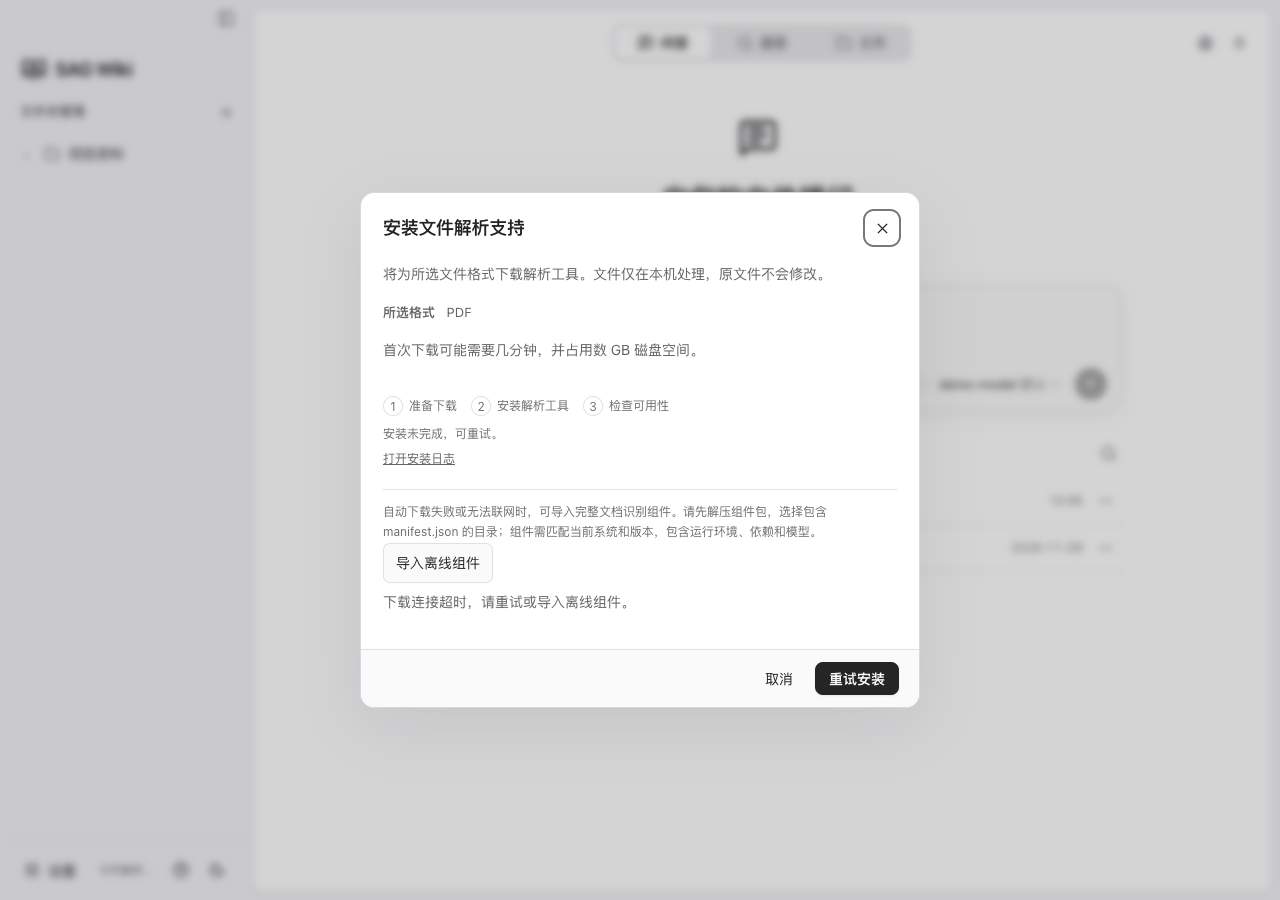
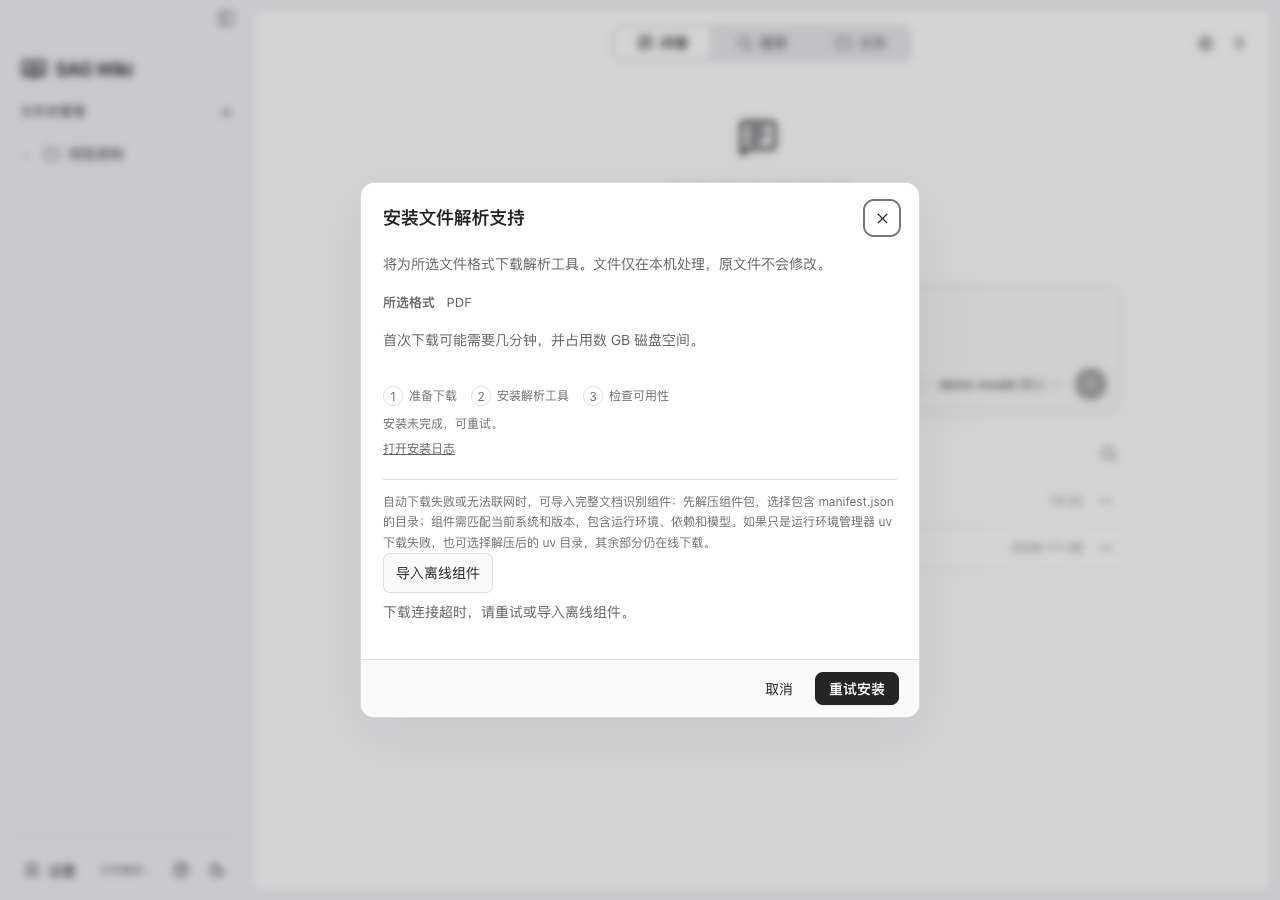
fix(desktop): accept a manually downloaded uv when importing offline components
When the uv download from GitHub fails, users can download the archive in
a browser, extract it and pick the folder through Import offline component.
SAG checks the uv version, installs it and continues the remaining steps
online. Download failures for uv, Python and dependencies now explain the
manual download URL or the UV_PYTHON_INSTALL_MIRROR / UV_DEFAULT_INDEX
mirror variables.

Changed region(s): [[0.2812, 0.4356, 0.6875, 0.6844], [0.2812, 0.1867, 0.7188, 0.4044], [0.2812, 0.7156, 0.7188, 0.8089]]

diff --git a/tests/docling-import.test.ts b/tests/docling-import.test.ts
@@ -3,7 +3,7 @@ import {afterEach,expect,it,vi} from 'vitest';
 import {mount,tick,unmount} from 'svelte';
 import Download from '../src/components/DoclingDownload.svelte';
 import {doclingStatus,doclingDownloadOpen,doclingInstallRequest,openDoclingDownload} from '../src/lib/docling';
-import {setLanguage} from '../src/lib/i18n';
+import {setLanguage,translate} from '../src/lib/i18n';
 const {invoke,open}=vi.hoisted(()=>({invoke:vi.fn(),open:vi.fn()}));
 vi.mock('@tauri-apps/api/core',()=>({invoke}));
 vi.mock('@tauri-apps/plugin-dialog',()=>({open}));
@@ -54,4 +54,10 @@ it('导入就绪后仍需用户点击应用，安装期间不允许重复导入'
 });
 it('英文导入说明与按钮没有遗漏中文',async()=>{
  await start();setLanguage('en');await tick();expect(button('Import offline component')).toBeDefined();expect(document.querySelector('.docling-dialog')!.textContent).not.toMatch(/[\u3400-\u9fff]/);
+});
+it('uv 下载失败与版本不符的后端提示在英文界面中完整翻译',()=>{
+ const url='https://github.com/astral-sh/uv/releases/download/0.12.1/uv-x86_64-pc-windows-msvc.zip';
+ expect(translate(`Error: 无法下载运行环境管理器：error sending request for url (${url}): tcp connect error。可用浏览器下载 ${url}，解压后点击“导入离线组件”并选择解压后的目录。`,'en'))
+  .toBe(`Error: Could not download the runtime manager: error sending request for url (${url}): tcp connect error. Download ${url} in a browser, extract it, then choose Import offline component and select the extracted folder.`);
+ expect(translate(`导入的 uv 版本为 0.13.0，当前需要 0.12.1。请用浏览器下载 ${url}，解压后重新导入。`,'en')).not.toMatch(/[\u3400-\u9fff]/);
 });

diff --git a/src/components/DoclingDownload.svelte b/src/components/DoclingDownload.svelte
@@ -47,7 +47,7 @@
   if(!request||request.pending||status.running||targets.length!==1||targets[0]!=='documents')return;
   request.pending=true;doclingInstallRequest.set(request);error='';
   try{
-   const path=await open({directory:true,multiple:false,title:$t('选择解压后的文档识别组件目录')});
+   const path=await open({directory:true,multiple:false,title:$t('选择解压后的文档识别组件或 uv 目录')});
    if(typeof path!=='string'||get(doclingInstallRequest)!==request||!get(doclingDownloadOpen))return;
    await api('import_docling_component',{path});
    request.started=true;
@@ -97,7 +97,7 @@
   {/if}
   {#if !status.running&&!complete&&targets.length===1&&targets[0]==='documents'}
    <section class="offline-component">
-    <p class="settings-help">{$t('自动下载失败或无法联网时，可导入完整文档识别组件。请先解压组件包，选择包含 manifest.json 的目录；组件需匹配当前系统和版本，包含运行环境、依赖和模型。')}</p>
+    <p class="settings-help">{$t('自动下载失败或无法联网时，可导入完整文档识别组件：先解压组件包，选择包含 manifest.json 的目录；组件需匹配当前系统和版本，包含运行环境、依赖和模型。如果只是运行环境管理器 uv 下载失败，也可选择解压后的 uv 目录，其余部分仍在线下载。')}</p>
     <Button.Root type="button" disabled={loading||context?.pending} onclick={importComponent}>{$t('导入离线组件')}</Button.Root>
    </section>
   {/if}

diff --git a/core/src/docling.rs b/core/src/docling.rs
@@ -1,5 +1,5 @@
 //! Optional external document conversion. The index only reads its Markdown output.
-use anyhow::{bail, Context, Result};
+use anyhow::{anyhow, bail, Context, Result};
 use sag_protocol::{DoclingProfile, DoclingProfileStatus, DoclingStatus};
 use sha2::{Digest, Sha256};
 use std::{
@@ -17,6 +17,7 @@ use std::{
 pub const OUTPUT_DIRECTORY: &str = ".sag-converted";
 const VERSION: &str = "2.140.0";
 const UV_VERSION: &str = "0.12.1";
+const UV_EXECUTABLE: &str = if cfg!(windows) { "uv.exe" } else { "uv" };
 const PYTHON_VERSION: &str = "3.12.13";
 const DIAGNOSTIC_LIMIT: u64 = 8 * 1024 * 1024;
 const MEDIA_EXTENSIONS: &[&str] = &[
@@ -139,6 +140,27 @@ pub fn is_selected(path: &Path, formats: &Option<Vec<String>>) -> bool {
 pub fn in_output(path: &Path) -> bool {
     path.components()
         .any(|part| part.as_os_str() == OUTPUT_DIRECTORY)
+}
+
+fn uv_download_url() -> Result<String> {
+    let platform = match (std::env::consts::OS, std::env::consts::ARCH) {
+        ("macos", "aarch64") => "aarch64-apple-darwin",
+        ("macos", "x86_64") => "x86_64-apple-darwin",
+        ("linux", "aarch64") => "aarch64-unknown-linux-gnu",
+        ("linux", "x86_64") => "x86_64-unknown-linux-gnu",
+        ("windows", "aarch64") => "aarch64-pc-windows-msvc",
+        ("windows", "x86_64") => "x86_64-pc-windows-msvc",
+        _ => bail!("当前系统暂不支持自动安装 Docling"),
+    };
+    let suffix = if cfg!(windows) { "zip" } else { "tar.gz" };
+    Ok(format!(
+        "https://github.com/astral-sh/uv/releases/download/{UV_VERSION}/uv-{platform}.{suffix}"
+    ))
+}
+
+enum OfflineImport {
+    Component(PathBuf),
+    Uv(PathBuf),
 }
 
 pub struct Docling {
@@ -308,16 +330,35 @@ impl Docling {
     }
     /// An explicit offline source applies to this installation only. Never
     /// register it as the source of later online retries or media installs.
+    /// A folder with a manifest is a complete component; a folder holding only
+    /// the extracted uv archive replaces the first download, and the remaining
+    /// steps still install online.
     pub fn import_component(self: &Arc<Self>, path: PathBuf) -> Result<()> {
-        if !path.join("manifest.json").is_file() {
-            bail!("预构建组件缺少 manifest.json")
+        if path.join("manifest.json").is_file() {
+            let source = OfflineImport::Component(path.canonicalize()?);
+            return self.start_profiles_from(vec![DoclingProfile::Documents], Some(source));
         }
-        self.start_profiles_from(vec![DoclingProfile::Documents], Some(path.canonicalize()?))
+        // Extracting the archive may add one folder level, e.g. uv-<platform>/uv.
+        let uv = walkdir::WalkDir::new(&path)
+            .max_depth(2)
+            .into_iter()
+            .filter_map(|entry| entry.ok())
+            .filter(|entry| entry.file_name() == UV_EXECUTABLE && entry.path().is_file())
+            .min_by_key(|entry| entry.depth());
+        let Some(uv) = uv else {
+            bail!("所选目录既不是完整组件（缺少 manifest.json），也不包含 {UV_EXECUTABLE}，请选择解压后的目录")
+        };
+        let source = OfflineImport::Uv(uv.path().canonicalize()?);
+        self.start_profiles_from(vec![DoclingProfile::Documents], Some(source))
     }
     pub fn start_profiles(self: &Arc<Self>, profiles: Vec<DoclingProfile>) -> Result<()> {
         self.start_profiles_from(profiles, None)
     }
-    fn start_profiles_from(self: &Arc<Self>, profiles: Vec<DoclingProfile>, source: Option<PathBuf>) -> Result<()> {
+    fn start_profiles_from(
+        self: &Arc<Self>,
+        profiles: Vec<DoclingProfile>,
+        offline: Option<OfflineImport>,
+    ) -> Result<()> {
         let profiles: Vec<_> = [DoclingProfile::Documents, DoclingProfile::Media]
             .into_iter()
             .filter(|profile| profiles.contains(profile))
@@ -348,8 +389,12 @@ impl Docling {
                     return Ok(());
                 }
                 let view = this.profile_view(profile);
-                if let Some(source) = &source {
-                    *view.source.lock().unwrap() = Some(source.clone());
+                match &offline {
+                    Some(OfflineImport::Component(source)) => {
+                        *view.source.lock().unwrap() = Some(source.clone());
+                    }
+                    Some(OfflineImport::Uv(uv)) => view.import_uv(uv)?,
+                    None => {}
                 }
                 view.install()
             });
@@ -467,7 +512,10 @@ impl Docling {
             "--no-config",
         ]);
         self.progress("runtime", "正在下载 Python 运行环境…");
-        self.run_install(&mut command, Duration::from_secs(600))?;
+        self.run_install(&mut command, Duration::from_secs(600))
+            .map_err(|error| self.with_hint(error, |error| anyhow!(
+                "无法下载 Python 运行环境：{error:#}。如无法访问 GitHub，可设置 UV_PYTHON_INSTALL_MIRROR 环境变量指向 python-build-standalone 镜像，重启 SAG 服务后重试。"
+            )))?;
         let python = walkdir::WalkDir::new(&python_home)
             .max_depth(4)
             .into_iter()
@@ -530,7 +578,10 @@ impl Docling {
                 "正在下载并安装 Docling 文档组件…"
             },
         );
-        self.run_install(&mut command, Duration::from_secs(1800))?;
+        self.run_install(&mut command, Duration::from_secs(1800))
+            .map_err(|error| self.with_hint(error, |error| anyhow!(
+                "无法下载组件依赖：{error:#}。如无法访问 PyPI，可设置 UV_DEFAULT_INDEX 环境变量（例如 https://pypi.tuna.tsinghua.edu.cn/simple），重启 SAG 服务后重试。"
+            )))?;
         let mut command = self.command(&python);
 
         command
@@ -679,42 +730,80 @@ impl Docling {
         )
         .map_err(Into::into)
     }
-    fn bootstrap_uv(&self) -> Result<PathBuf> {
-        let executable = self.home.join(if cfg!(windows) { "uv.exe" } else { "uv" });
-        if executable.is_file() {
-            let mut version = String::new();
-            let result = crate::process_supervisor::run(
-                self.command(&executable).arg("--version"),
-                crate::process_supervisor::Limits {
-                    timeout: Duration::from_secs(15),
-                    memory_bytes: Some(256 * 1024 * 1024),
-                },
-                &|| self.cancel.load(Ordering::Relaxed),
-                |line| {
-                    if version.len() < 2048 {
-                        version.push_str(&String::from_utf8_lossy(line));
-                    }
-                },
-            );
-            if result.is_ok() && version.split_whitespace().nth(1) == Some(UV_VERSION) {
-                return Ok(executable);
-            }
+    /// Keeps cancellation messages intact; other failures gain a recovery hint.
+    fn with_hint(
+        &self,
+        error: anyhow::Error,
+        hint: impl FnOnce(anyhow::Error) -> anyhow::Error,
+    ) -> anyhow::Error {
+        if self.cancel.load(Ordering::Relaxed) {
+            error
+        } else {
+            hint(error)
         }
-        let platform = match (std::env::consts::OS, std::env::consts::ARCH) {
-            ("macos", "aarch64") => "aarch64-apple-darwin",
-            ("macos", "x86_64") => "x86_64-apple-darwin",
-            ("linux", "aarch64") => "aarch64-unknown-linux-gnu",
-            ("linux", "x86_64") => "x86_64-unknown-linux-gnu",
-            ("windows", "aarch64") => "aarch64-pc-windows-msvc",
-            ("windows", "x86_64") => "x86_64-pc-windows-msvc",
-            _ => bail!("当前系统暂不支持自动安装 Docling"),
-        };
+    }
+    fn uv_version(&self, executable: &Path) -> Option<String> {
+        let mut version = String::new();
+        crate::process_supervisor::run(
+            self.command(executable).arg("--version"),
+            crate::process_supervisor::Limits {
+                timeout: Duration::from_secs(15),
+                memory_bytes: Some(256 * 1024 * 1024),
+            },
+            &|| self.cancel.load(Ordering::Relaxed),
+            |line| {
+                if version.len() < 2048 {
+                    version.push_str(&String::from_utf8_lossy(line));
+                }
+            },
+        )
+        .ok()?;
+        let mut words = version.split_whitespace();
+        (words.next() == Some("uv")).then(|| words.next().map(str::to_owned))?
+    }
+    /// Installs a uv the user downloaded manually, so the GitHub download in
+    /// `bootstrap_uv` is skipped. The source folder is left untouched.
+    fn import_uv(&self, source: &Path) -> Result<()> {
+        self.progress("runtime", "正在校验导入的运行环境管理器…");
+        let url = uv_download_url()?;
+        match self.uv_version(source) {
+            Some(version) if version == UV_VERSION => {}
+            Some(version) => bail!(
+                "导入的 uv 版本为 {version}，当前需要 {UV_VERSION}。请用浏览器下载 {url}，解压后重新导入。"
+            ),
+            None => bail!(
+                "所选的 {UV_EXECUTABLE} 无法运行或不是 uv。请用浏览器下载 {url}，解压后重新导入。"
+            ),
+        }
+        if fs::metadata(source)?.len() > 128 * 1024 * 1024 {
+            bail!("运行环境管理器文件过大")
+        }
+        fs::create_dir_all(&self.home)?;
+        let mut candidate = tempfile::NamedTempFile::new_in(&self.home)?;
+        std::io::copy(&mut fs::File::open(source)?, candidate.as_file_mut())?;
+        #[cfg(unix)]
+        {
+            use std::os::unix::fs::PermissionsExt;
+            candidate
+                .as_file()
+                .set_permissions(fs::Permissions::from_mode(0o755))?;
+        }
+        candidate.as_file().sync_all()?;
+        candidate
+            .persist(self.home.join(UV_EXECUTABLE))
+            .map_err(|error| error.error)?;
+        Ok(())
+    }
+    fn bootstrap_uv(&self) -> Result<PathBuf> {
+        let executable = self.home.join(UV_EXECUTABLE);
+        if executable.is_file() && self.uv_version(&executable).as_deref() == Some(UV_VERSION) {
+            return Ok(executable);
+        }
+        let url = uv_download_url()?;
         self.progress("runtime", "正在下载运行环境管理器…");
-        let suffix = if cfg!(windows) { "zip" } else { "tar.gz" };
-        let url = format!(
-            "https://github.com/astral-sh/uv/releases/download/{UV_VERSION}/uv-{platform}.{suffix}"
-        );
-        let mut archive = self.download_archive(&url)?;
+        let mut archive = self.download_archive(&url).map_err(|error| self.with_hint(error, |error| anyhow!(
+            "无法下载运行环境管理器：{error:#}。可用浏览器下载 {url}，解压后点击“导入离线组件”并选择解压后的目录。"
+        )))?;
         use std::io::Seek;
         archive.rewind()?;
         let mut candidate = tempfile::NamedTempFile::new_in(&self.home)?;

diff --git a/core/src/docling_tests.rs b/core/src/docling_tests.rs
@@ -2024,3 +2024,65 @@ fn explicit_offline_import_runs_probe_and_preserves_the_registered_source() {
     assert_eq!(*converter.source.lock().unwrap(), Some(registered.canonicalize().unwrap()));
     assert!(source.join("manifest.json").is_file(), "import must retain the source");
 }
+
+#[cfg(unix)]
+fn offline_uv(dir: &Path, version: &str) -> PathBuf {
+    use std::os::unix::fs::PermissionsExt;
+    // Mirrors `tar -xzf`, which keeps the archive's uv-<platform>/ folder.
+    let uv = dir.join("uv-test-platform/uv");
+    fs::create_dir_all(uv.parent().unwrap()).unwrap();
+    fs::write(&uv, format!("#!/bin/sh\nif [ \"$1\" = --version ]; then echo 'uv {version} (fixture)'; exit 0; fi\necho 'python download blocked' >&2\nexit 1\n")).unwrap();
+    fs::set_permissions(&uv, fs::Permissions::from_mode(0o755)).unwrap();
+    uv
+}
+
+#[cfg(unix)]
+fn finished(converter: &Docling) -> DoclingStatus {
+    let deadline = std::time::Instant::now() + Duration::from_secs(10);
+    loop {
+        let status = converter.status();
+        if !status.running { return status; }
+        assert!(std::time::Instant::now() < deadline, "offline import did not finish");
+        std::thread::sleep(Duration::from_millis(10));
+    }
+}
+
+#[cfg(unix)]
+#[test]
+fn offline_uv_import_skips_the_uv_download_and_continues_online() {
+    let temp = tempfile::tempdir().unwrap();
+    let source = offline_uv(&temp.path().join("offline"), UV_VERSION);
+    let converter = Arc::new(Docling::new(&temp.path().join("data")));
+    converter.import_component(temp.path().join("offline")).unwrap();
+    let status = finished(&converter);
+    let error = status.error.unwrap();
+    // The fixture blocks the next online step, so reaching it proves uv was
+    // accepted without contacting GitHub for the uv archive.
+    assert!(error.contains("无法下载 Python 运行环境") && error.contains("UV_PYTHON_INSTALL_MIRROR"), "{error}");
+    assert_eq!(fs::read(converter.home.join("uv")).unwrap(), fs::read(&source).unwrap());
+    assert!(source.is_file(), "import must retain the source");
+    assert!(converter.source.lock().unwrap().is_none());
+    assert!(!status.installed);
+}
+
+#[cfg(unix)]
+#[test]
+fn offline_uv_import_rejects_another_uv_version_with_the_download_url() {
+    let temp = tempfile::tempdir().unwrap();
+    offline_uv(&temp.path().join("offline"), "0.1.0");
+    let converter = Arc::new(Docling::new(&temp.path().join("data")));
+    converter.import_component(temp.path().join("offline")).unwrap();
+    let error = finished(&converter).error.unwrap();
+    assert!(error.contains("导入的 uv 版本为 0.1.0") && error.contains(&uv_download_url().unwrap()), "{error}");
+    assert!(!converter.home.join("uv").exists());
+}
+
+#[test]
+fn offline_import_rejects_a_folder_without_a_component_or_uv() {
+    let temp = tempfile::tempdir().unwrap();
+    fs::write(temp.path().join("uv-installer.txt"), "not uv").unwrap();
+    let converter = Arc::new(Docling::new(&temp.path().join("data")));
+    let error = converter.import_component(temp.path().to_path_buf()).unwrap_err().to_string();
+    assert!(error.contains("manifest.json") && error.contains(UV_EXECUTABLE), "{error}");
+    assert!(!converter.status().running);
+}
